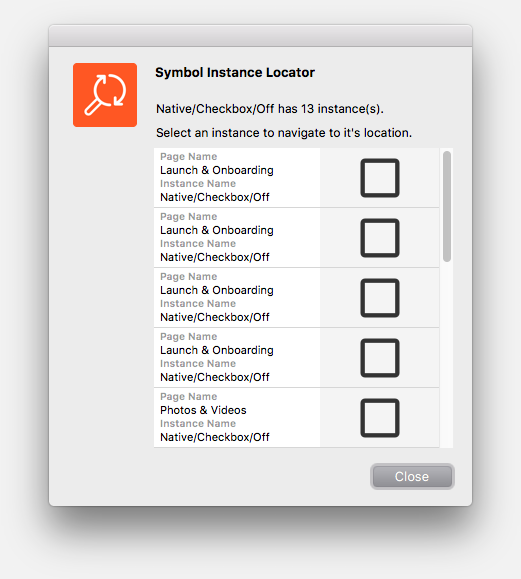
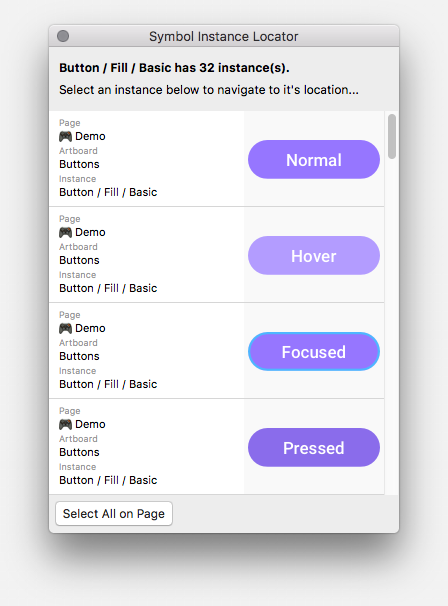
Added button to select all matches on current page, updated plugin screenshot.

Changed region(s): [[0.0938, 0.0311, 0.9062, 0.9016]]

diff --git a/README.md b/README.md
@@ -39,6 +39,7 @@ To find your plugins directory...
 
 # Changelog
 
+* **1.3** - Added button to select all matches on current page, updated plugin screenshot.
 * **1.2** - Update to make the result window a floating panel, highlight for current selection, and artboard name.
 * **1.1** - Code optimizations and dialog frame will now be smaller if a small set of results are returned.
 * **1.0** - Found instances now display image of the instance, page where the instance reside, and instance name.
